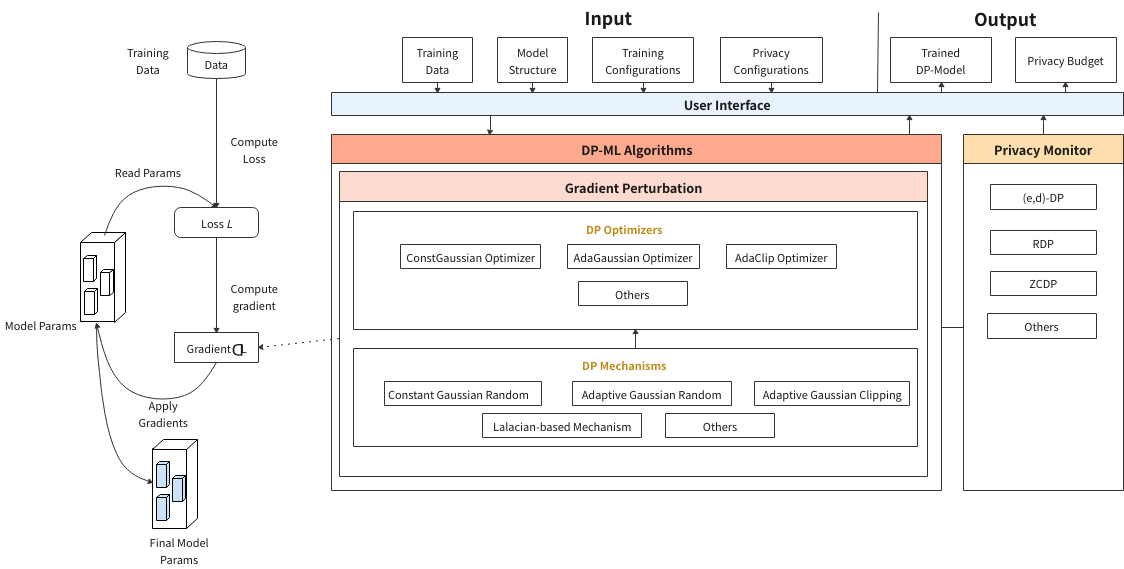
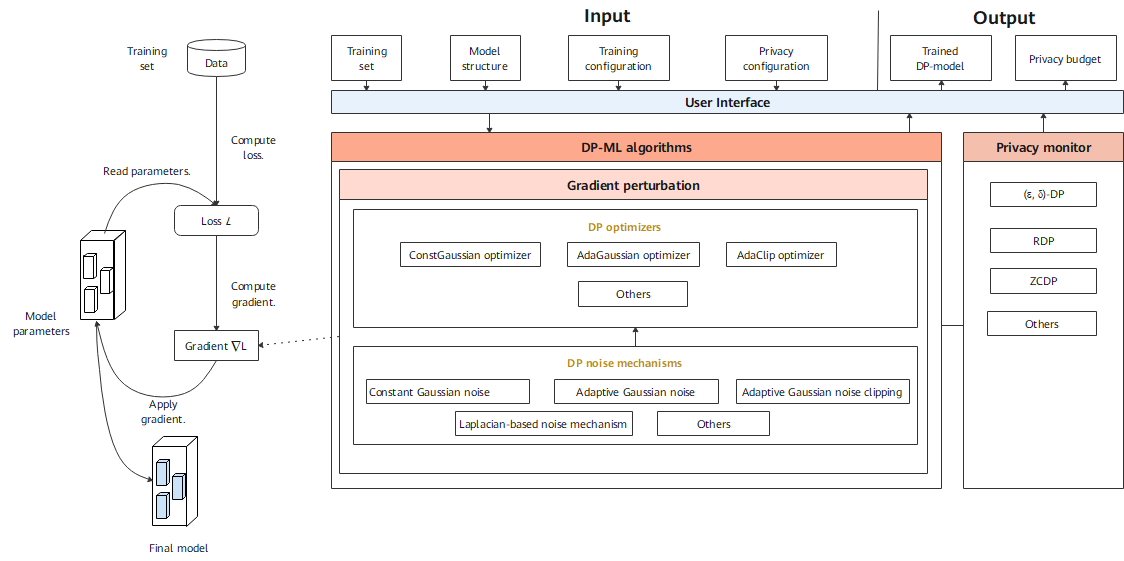
add MindArmour design of English version

diff --git a/docs/mindarmour/docs/source_en/design.md b/docs/mindarmour/docs/source_en/design.md
@@ -1,0 +1,115 @@
+# Overall Security and Trustworthiness Design
+
+<a href="https://gitee.com/mindspore/docs/blob/master/docs/mindarmour/docs/source_en/design.md" target="_blank"><img src="https://gitee.com/mindspore/docs/raw/master/resource/_static/logo_source.png"></a>
+
+## Overall Architecture
+
+As a general technology, AI brings great opportunities and benefits, and faces new security and privacy protection challenges. MindArmour focuses on common security and privacy issues in AI application scenarios: AI models are vulnerable to adversarial example spoofing, sensitive privacy data may be collected in the data collection process, privacy data may be leaked during model use, model assets have a risk of being stolen, and models may become invalid due to data drift. MindArmour provides corresponding security and privacy protection capabilities.
+
+The following figure shows the overall MindArmour architecture. The following describes three parts: model robustness, model asset security, and privacy protection.
+
+- Model robustness: MindArmour model robustness focuses on the robustness of AI models for natural and adversarial perturbation examples. It covers natural perturbation example generation, black-box and white-box adversarial perturbation example generation, adversarial example detection, adversarial training, and AI Fuzzer, helping security personnel quickly and efficiently evaluate the robustness of AI models and improve their anti-attack capabilities.
+- Model asset security: The structure and weight of AI models are key assets. To prevent models from being stolen during transmission, deployment, and running, MindArmour provides encryption-based model file protection and lightweight model protection based on structure parameter obfuscation. In federated learning scenarios, secure multi-party computing capabilities with lossless precision are provided to prevent model theft.
+- Privacy leakage measurement and protection: In the data collection phase, the data masking capability is provided to prevent user privacy data from being collected. In the model training phase, differential privacy and privacy suppression mechanisms are provided to reduce model privacy leakage risks. In the model use phase, privacy leakage assessment technologies based on membership inference and inversion attacks are provided to evaluate the risks of model privacy leakage.
+
+![architecture](./images/ma_arch.png)
+
+## Design Guidelines
+
+### Model Robustness
+
+Focus on the robustness of AI models for natural perturbation examples and adversarial examples.
+
+**Natural Perturbation Examples**
+
+Simulate common perturbations in real life, such as focus blur, motion blur, overexposure, rotation, translation, scaling, shearing, perspective transformation, uniform noise, and natural noise etc.
+
+**Adversarial Examples**
+
+An attacker adds small perturbations that are not easily perceived by human to the original example, causing deep learning model misjudgment. This is called an adversarial example attack.
+
+MindArmour model security provides functions such as natural perturbation example generation, adversarial example generation, adversarial example detection, model defense, and attack defense effect evaluation, providing important support for AI model security research and AI application security.
+
+![robustness](./images/robustness.png)
+
+- Perturbation example generation module: provides over 10 white-box adversarial example generation methods, over 5 black-box adversarial example generation methods, and over 15 natural perturbation example generation methods. Security engineers can quickly and efficiently generate adversarial examples based on different requirements to attack AI models.
+- Detection module: provides more than 5 adversarial example detection methods to determine whether the input examples are adversarial and identify attack data and attacks before model inference.
+- Defense module: provides defense methods for adversarial training to improve the attack defense capability of the model.
+- Evaluation module: provides multi-dimensional evaluation indicators to comprehensively evaluate the robustness of the model.
+
+#### AI Fuzzer
+
+Different from traditional fuzzing, AI Fuzzer uses the neuron coverage rate as the test evaluation criterion based on the characteristics of neural networks. Neuron coverage refers to the range of the number of activated neurons and the output value of neurons observed through a group of inputs. The neuron coverage gain is used to guide input variation so that the input can activate more neurons and the neuron values can be distributed in a wider range. In this way, the output results and incorrect behaviors of different types of models can be explored to evaluate the robustness of the models.
+
+![fuzz_architecture](./images/fuzz_arch.png)
+
+AI Fuzzer consists of three modules:
+
+1. Natural Threat/Adversarial Example Generator (data mutation module)
+
+    Randomly selects a mutation method to mutate seed data to generate multiple variants. Mutation policies for multiple types of examples are supported, including:
+
+    1. Method for generating natural perturbation examples:
+      - Affine transformation: translate, scale, shear, rotate, perspective, and curve.
+      - Blur: GaussianBlur, MotionBlur, and GradientBlur.
+      - Luminance adjustment: Contrast and GradientLuminance.
+      - Noise addition: UniformNoise, GaussianNoise, SaltAndPepperNoise, and NaturalNoise.
+    2. Methods for generating white-box and black-box adversarial examples based on adversarial attacks: fast gradient sign method (FGSM), projected gradient descent (PGD), and momentum diverse input iterative method (MDIIM).
+
+2. Fuzzer moduler (mutation guidance module):
+
+   Performs fuzzing on the data generated by mutation and observes the change of the neuron coverage rate. If the generated data increases the neuron coverage rate, it adds the data to the mutation seed queue for the next round of data mutation. Currently, the following neuron coverage rate metrics are supported: NC, TKNC, KMNC, NBC, and SNAC.
+
+3. Evaluation (evaluation module):
+
+   Evaluates the fuzzer effect, quality of generated data, and strength of mutation methods. Three types of five metrics are supported, including common evaluation metrics such as accuracy, precision, and recall rate, neuron coverage, and attack success rate.
+
+### Model Asset Security
+
+Deep learning models have high business value and knowledge attributes. To protect model asset security and prevent models from being illegally copied, redistributed, and abused during transmission, deployment, and running, MindArmour provides encryption-based model file protection and structure parameter obfuscation-based lightweight model protection. In federated learning scenarios, secure multi-party computing capabilities with lossless precision are provided to prevent model theft.
+
+#### Model Encryption
+
+To ensure the security of model flushing to disks, MindArmour integrates the CKPT and MINDIR encryption and decryption functions in the framework. Developers can encrypt models and load ciphertext models before flushing models to disks. In the training phase, you can transfer the encryption key and encryption mode to the framework to enable the model encryption function and generate a ciphertext model. When the inference service is deployed, the same encryption key and mode are transferred to the framework during encryption and export to enable decryption during running.
+
+![encrypted](./images/encrypted.png)
+
+#### Model Obfuscation
+
+Model obfuscation scrambles the computation logic of a model without changing the model function, which greatly reduces the readability of the model. In this way, the reverse cost exceeds the benefit brought by the reverse, and the model is available but incomprehensible. It is lightweight and independent of specific hardware.
+
+![1631006317050](./images/obfuscation.png)
+
+### Privacy
+
+Protecting user privacy and security is an important corporate responsibility. MindArmour provides privacy protection capabilities throughout the AI lifecycle. In the data collection phase, the data masking capability is provided to prevent user privacy data from being collected. In the model training phase, differential privacy and privacy suppression mechanisms are provided to reduce model privacy leakage risks. In the model use phase, privacy leakage assessment technologies based on membership inference and inversion attacks are provided to evaluate the risks of model privacy leakage.
+
+### Data Masking
+
+Predefined privacy elements: The most common scenario is to anonymize street view data of autonomous driving, identify and mask specific content. The recall rate must be high, that is, the number of manual operations must be reduced as much as possible.
+
+![data_masking.png](./images/data_masking.png)
+
+- Objects: faces, license plates, and specific text.
+- Purposes: Protect ID privacy and maximize data availability while ensuring a high recall rate.
+- Process:
+    - Detect coarse-grained objects in which predefined fine-grained elements are located, and crop and save areas in which the coarse-grained objects are located.
+    - Then, the fine-grained detection model is called to accurately locate privacy elements. If no privacy element is found in the coarse-grained detection area, the guarantee policy should be used to roughly locate the coarse-grained area to prevent privacy leakage caused by missing masking.
+    - Finally, summarize all areas to be masked and the corresponding classes, and call the masking API to perform personalized masking.
+
+#### Differential Privacy Training
+
+The differential-privacy module of MindArmour implements differential privacy training. Model training consists of building a training dataset, computing the loss, computing the gradient, and updating model parameters. Currently, the differential privacy training of MindArmour focuses on the gradient computation process, that is, cropping and noise adding on the gradient using corresponding algorithms. In this way, user data privacy is protected.
+
+![dp_arch](./images/dp_arch.png)
+
+- DP optimizer inherits capabilities of the MindSpore optimizer and uses the DP mechanisms to scramble and protect gradients. Currently, MindArmour provides three types of differential privacy optimizers: constant Gaussian optimizer, adaptive Gaussian optimizer, and adaptive clipping optimizer. Each type of differential privacy optimizer improves the differential privacy protection capabilities for common optimizers, such as SGD and Momentum, from different perspectives.
+- Differential privacy (DP) noise mechanisms are the basis for building the differential privacy training capability. Different noise mechanisms meet the requirements of different differential privacy optimizers, including constant Gaussian noise, adaptive Gaussian noise, adaptive Gaussian noise clipping, and Laplacian-based noise mechanism.
+- The privacy monitor provides callback functions such as Rényi differential privacy (RDP) and zero-concentrated differential privacy (ZCDP) to monitor the differential privacy budget of the model.
+
+#### Privacy Leakage Assessment
+
+MindArmour uses algorithms such as membership inference attack and model inversion attack to evaluate the risk of model privacy leakage.
+
+- Membership inference: If an attacker has some access permissions (black box, gray box, or white box) of a model to obtain some or all information about the model output, structure, or parameters, they can determine whether a sample belongs to a training set of a model. In this case, we can use membership inference to evaluate the privacy data security of machine learning and deep learning models.
+- Inversion attack: Attackers use model gradients to inversely infer user data. The attacker first randomly generates a pair of input data and labels, exports the virtual gradient, and updates the input data and labels during the optimization process to reduce the difference between the virtual gradient and the real gradient, thereby obtaining the privacy input data. With inversion attacks, we can evaluate the risk of leaking training data by deep learning models.
